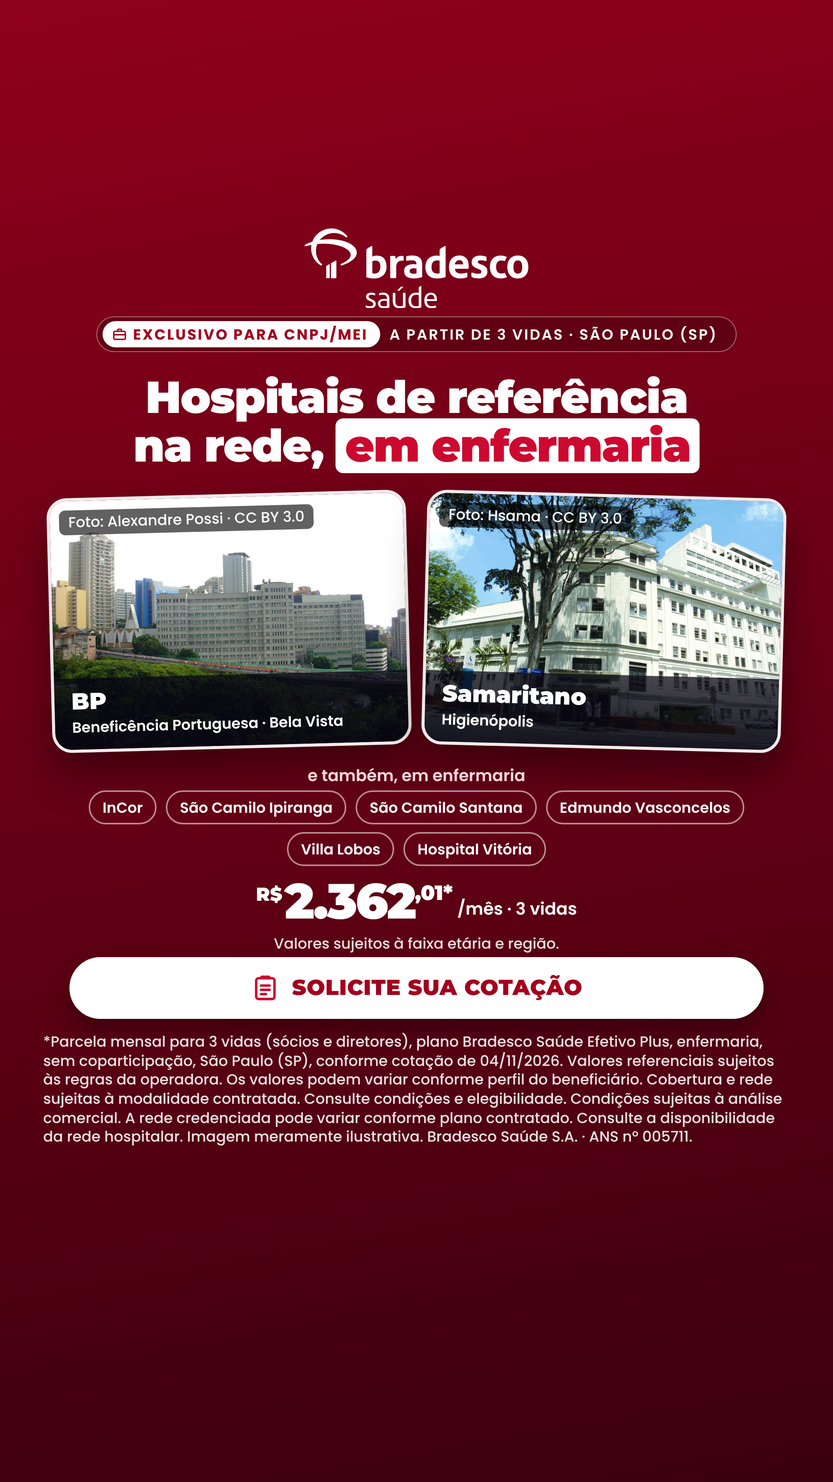
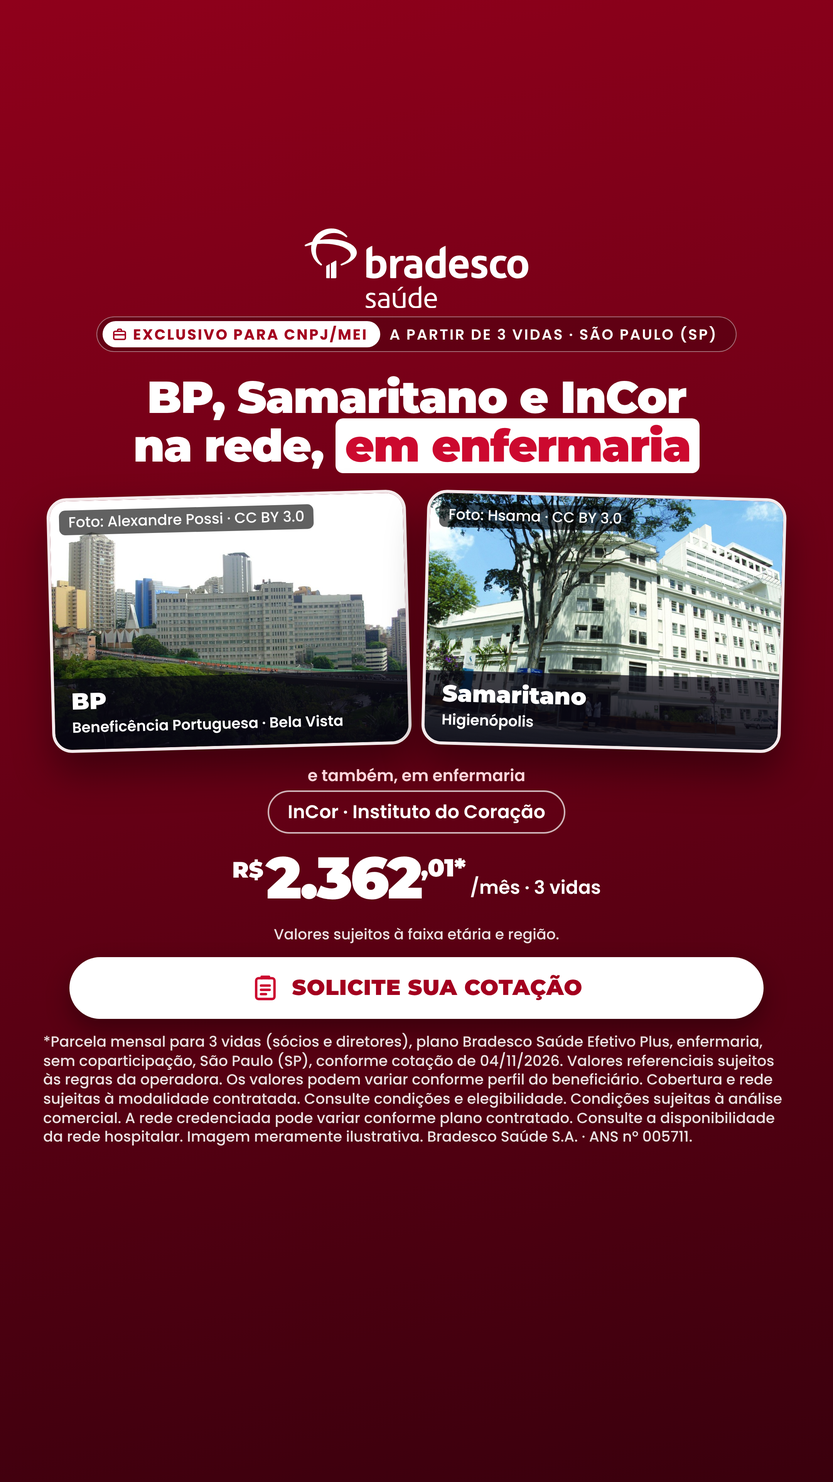
Hospitais: só os melhores de SP que estão na rede da cotação
Regra do cliente registrada no CLAUDE.md: citar só hospitais de primeira linha de São Paulo, e só
se estiverem na rede do plano na acomodação da cotação (Einstein, Sírio e Oswaldo Cruz não estão
nestes planos de enfermaria).
- B6: BP, Samaritano e InCor (material oficial Bradesco); saem os de segunda linha
- S5/S6: BP e São Luiz (Rede D'Or); saem Leforte e Santa Paula
- A4–A6 (rede própria Amil) suspensas: fonte fica em pecas/_a*.html, PNGs saem de final/

Claude-Session: https://claude.ai/code/session_01GQmGjzcDcCg5ZjPiHt6SBp

Changed region(s): [[0.2171, 0.5312, 0.8995, 0.6562], [0.1861, 0.25, 0.8375, 0.2812], [0.1241, 0.5312, 0.1861, 0.5625]]

diff --git a/criativos/cotacoes-3-vidas-sp/pecas/s6-sula-enquete.html b/criativos/cotacoes-3-vidas-sp/pecas/s6-sula-enquete.html
@@ -6,34 +6,34 @@
 <link rel="stylesheet" href="base.css">
 <link rel="stylesheet" href="hosp.css">
 <style>
-  /* S6 — jeito de enquete de Story: "Qual hospital você quer na rede da sua empresa?" com quatro opções, todas
-     marcadas (estão na rede de referência do Direto Nacional em enfermaria). A BP leva a miniatura da fachada real. */
+  /* S6 — jeito de enquete de Story: "Qual hospital você quer na rede da sua empresa?" com as duas opções
+     marcadas: BP e São Luiz, hospitais de primeira linha da rede do Direto Nacional em enfermaria. A BP leva a miniatura da fachada real. */
   body { background: radial-gradient(120% 70% at 50% 35%, #2c3a72 0%, #222d59 45%, #161e40 100%); }
   .logo { position: absolute; left: 380px; top: 294px; width: 320px; }
   .chip { position: absolute; left: 0; right: 0; margin: 0 auto; width: max-content; top: 406px; height: 46px; padding: 0 24px;
     font-size: 19px; color: #fff; background: rgba(255,255,255,.08); border: 1px solid rgba(255,255,255,.35); }
 
-  .enquete { position: absolute; left: 90px; right: 90px; top: 484px; height: 556px; border-radius: 34px; background: #fff;
+  .enquete { position: absolute; left: 90px; right: 90px; top: 484px; height: 420px; border-radius: 34px; background: #fff;
     box-shadow: 0 30px 60px rgba(0,0,0,.4); color: var(--sula-esc); }
   .enquete .q { position: absolute; left: 40px; right: 40px; top: 34px; text-align: center; font-family: var(--mont); font-weight: 900;
     font-size: 44px; line-height: 1.1; letter-spacing: -.015em; }
-  .op { position: absolute; left: 40px; right: 40px; height: 84px; border-radius: 22px; background: #eef1fa; display: flex;
+  .op { position: absolute; left: 40px; right: 40px; height: 90px; border-radius: 22px; background: #eef1fa; display: flex;
     align-items: center; gap: 18px; padding: 0 24px; }
-  .op.o1 { top: 176px; } .op.o2 { top: 268px; } .op.o3 { top: 360px; } .op.o4 { top: 452px; }
+  .op.o1 { top: 196px; } .op.o2 { top: 300px; }
   .op .barra { position: absolute; left: 0; top: 0; bottom: 0; width: 100%; border-radius: 22px;
     background: linear-gradient(90deg, rgba(242,138,21,.28), rgba(233,82,28,.18)); }
-  .op b { position: relative; font-family: var(--mont); font-weight: 800; font-size: 30px; }
+  .op b { position: relative; font-family: var(--mont); font-weight: 900; font-size: 36px; }
   .op small { position: relative; font-weight: 500; font-size: 19px; color: #3b4470; }
   .op .ok { position: relative; margin-left: auto; display: flex; align-items: center; gap: 8px; font-weight: 700; font-size: 19px; color: #a3410a; }
   .op .ok .icone { width: 32px; height: 32px; padding: 6px; border-radius: 50%; background: var(--laranja); color: var(--sula-esc); }
   .op .mini { position: relative; width: 58px; height: 58px; border-radius: 50%; overflow: hidden; flex: none; border: 3px solid #fff; }
   .op .mini img { position: absolute; left: 0; top: 0; width: 52px; height: 52px; }
-  .resp { position: absolute; left: 0; right: 0; top: 1096px; text-align: center; font-family: var(--mont); font-weight: 800; font-size: 30px; }
+  .resp { position: absolute; left: 0; right: 0; top: 990px; font-size: 38px; text-align: center; font-family: var(--mont); font-weight: 800; font-size: 30px; }
   .resp em { font-style: normal; color: var(--laranja); }
-  .preco { position: absolute; left: 0; right: 0; top: 1138px; text-align: center; font-size: 62px; }
+  .preco { position: absolute; left: 0; right: 0; top: 1060px; text-align: center; font-size: 84px; }
   .preco .mes { font-family: 'Poppins'; font-weight: 600; font-size: 22px; letter-spacing: 0; margin-left: 6px; color: #dfe4f5; }
-  .nota-preco { position: absolute; left: 0; right: 0; top: 1208px; text-align: center; color: rgba(255,255,255,.8); }
-  .credito.s6 { left: 0; right: 0; margin: 0 auto; width: max-content; top: 1052px; background: rgba(22,30,64,.85); }
+  .nota-preco { position: absolute; left: 0; right: 0; top: 1190px; text-align: center; color: rgba(255,255,255,.8); }
+  .credito.s6 { left: 0; right: 0; margin: 0 auto; width: max-content; top: 920px; background: rgba(22,30,64,.85); }
   .cta { background: linear-gradient(90deg, var(--laranja), var(--laranja-2)); color: var(--sula-esc); box-shadow: 0 14px 30px rgba(0,0,0,.35); }
   .legal { color: rgba(255,255,255,.85); }
 </style>
@@ -43,15 +43,13 @@
   <p class="chip"><span class="req"><span data-icone="maleta"></span>Exclusivo para CNPJ/MEI</span>A partir de 3 vidas · São Paulo (SP)</p>
 
   <div class="enquete">
-    <p class="q">Qual hospital você quer na rede da sua empresa?</p>
-    <div class="op o1"><i class="barra"></i><b>São Luiz</b><small>Rede D'Or</small><span class="ok"><span data-icone="check"></span>na rede</span></div>
-    <div class="op o2"><i class="barra"></i><span class="mini"><img src="../assets/fotos/cortes/h-bp-redondo.jpg" alt=""></span><b>BP</b><small>Beneficência Portuguesa</small><span class="ok"><span data-icone="check"></span>na rede</span></div>
-    <div class="op o3"><i class="barra"></i><b>Leforte</b><span class="ok"><span data-icone="check"></span>na rede</span></div>
-    <div class="op o4"><i class="barra"></i><b>Santa Paula</b><span class="ok"><span data-icone="check"></span>na rede</span></div>
+    <p class="q">Qual desses hospitais você quer na rede da sua empresa?</p>
+    <div class="op o2"><i class="barra"></i><b>São Luiz</b><small>Rede D'Or</small><span class="ok"><span data-icone="check"></span>na rede</span></div>
+    <div class="op o1"><i class="barra"></i><span class="mini"><img src="../assets/fotos/cortes/h-bp-redondo.jpg" alt=""></span><b>BP</b><small>Beneficência Portuguesa</small><span class="ok"><span data-icone="check"></span>na rede</span></div>
   </div>
   <p class="credito s6">Foto da BP: Alexandre Possi · CC BY 3.0</p>
 
-  <p class="resp">Todos, no <em>SulAmérica Direto Nacional</em></p>
+  <p class="resp">Os dois, no <em>SulAmérica Direto Nacional</em></p>
   <p class="preco"><span class="rs">R$</span>1.593<span class="cent">,54*</span><span class="mes">/mês · 3 vidas · sem coparticipação</span></p>
   <p class="nota-preco"></p>
 

diff --git a/criativos/cotacoes-3-vidas-sp/pecas/b6-bradesco-rede.html b/criativos/cotacoes-3-vidas-sp/pecas/b6-bradesco-rede.html
@@ -6,8 +6,8 @@
 <link rel="stylesheet" href="base.css">
 <link rel="stylesheet" href="hosp.css">
 <style>
-  /* B6 — a rede do Efetivo Plus em enfermaria na capital (lista oficial da Bradesco Saúde, set/2026): BP e Samaritano
-     em fotos reais lado a lado e os demais hospitais em etiquetas; o preço da cotação de 3 vidas embaixo. */
+  /* B6 — os três hospitais de primeira linha da rede do Efetivo Plus em enfermaria na capital (material oficial da
+     Bradesco Saúde, set/2026): BP e Samaritano em fotos reais lado a lado e o InCor em etiqueta; o preço da cotação de 3 vidas embaixo. */
   body { background: linear-gradient(170deg, #8f001b 0%, #6a0016 45%, #3a000d 100%); }
   .logo { position: absolute; left: 395px; top: 296px; width: 290px; color: #fff; }
   .chip { position: absolute; left: 0; right: 0; margin: 0 auto; width: max-content; top: 410px; height: 46px; padding: 0 24px;
@@ -23,10 +23,10 @@
 
   .tb { position: absolute; left: 0; right: 0; top: 990px; text-align: center; font-weight: 600; font-size: 21px; color: #ffd6dc; }
   .mais { top: 1024px; left: 50px; right: 50px; }
-  .mais span { border: 2px solid rgba(255,255,255,.55); color: #fff; height: 44px; font-size: 19px; padding: 0 16px; }
-  .preco { position: absolute; left: 0; right: 0; top: 1140px; text-align: center; font-size: 64px; }
-  .preco .mes { font-family: 'Poppins'; font-weight: 600; font-size: 22px; letter-spacing: 0; margin-left: 6px; }
-  .nota-preco { position: absolute; left: 0; right: 0; top: 1208px; text-align: center; color: rgba(255,255,255,.88); }
+  .mais span { border: 2px solid rgba(255,255,255,.7); color: #fff; height: 56px; font-size: 24px; padding: 0 24px; }
+  .preco { position: absolute; left: 0; right: 0; top: 1104px; text-align: center; font-size: 76px; }
+  .preco .mes { font-family: 'Poppins'; font-weight: 600; font-size: 24px; letter-spacing: 0; margin-left: 6px; }
+  .nota-preco { position: absolute; left: 0; right: 0; top: 1196px; text-align: center; color: rgba(255,255,255,.88); }
   .cta { background: #fff; color: var(--brad-esc); box-shadow: 0 14px 30px rgba(20,0,4,.4); }
   .cta .icone { color: var(--brad); }
   .legal { color: rgba(255,255,255,.88); }
@@ -35,7 +35,7 @@
 <body data-operadora="bradesco" data-hospital="sim">
   <div class="logo" data-marca="bradesco"></div>
   <p class="chip"><span class="req"><span data-icone="maleta"></span>Exclusivo para CNPJ/MEI</span>A partir de 3 vidas · São Paulo (SP)</p>
-  <h1 class="h1">Hospitais de referência<br>na rede, <em>em enfermaria</em></h1>
+  <h1 class="h1">BP, Samaritano e InCor<br>na rede, <em>em enfermaria</em></h1>
 
   <div class="quadro c1">
     <img src="../assets/fotos/cortes/h-bp-card.jpg" alt="">
@@ -49,7 +49,7 @@
   </div>
 
   <p class="tb">e também, em enfermaria</p>
-  <p class="mais"><span>InCor</span><span>São Camilo Ipiranga</span><span>São Camilo Santana</span><span>Edmundo Vasconcelos</span><span>Villa Lobos</span><span>Hospital Vitória</span></p>
+  <p class="mais"><span>InCor · Instituto do Coração</span></p>
 
   <p class="preco"><span class="rs">R$</span>2.362<span class="cent">,01*</span><span class="mes">/mês · 3 vidas</span></p>
   <p class="nota-preco"></p>

diff --git a/criativos/cotacoes-3-vidas-sp/pecas/s5-sula-rede.html b/criativos/cotacoes-3-vidas-sp/pecas/s5-sula-rede.html
@@ -6,7 +6,7 @@
 <link rel="stylesheet" href="base.css">
 <link rel="stylesheet" href="hosp.css">
 <style>
-  /* S5 — lista de hospitais de referência do Direto Nacional em enfermaria na capital, com a fachada real da BP num
+  /* S5 — os hospitais de primeira linha da rede do Direto Nacional em enfermaria na capital (BP e São Luiz), com a fachada real da BP num
      cartão ao lado e o preço mensal da cotação embaixo. */
   body { background: linear-gradient(180deg, #222d59 0%, #1b2550 50%, #161e40 100%); }
   .onda { position: absolute; inset: 0; width: 100%; height: 100%; }
@@ -20,10 +20,10 @@
   .quadro.c1 { left: 60px; top: 650px; width: 466px; height: 330px; transform: rotate(-2deg); }
   .quadro.c1 img { left: 0; top: 0; width: 458px; height: 322px; }
   .quadro .credito { left: 12px; top: 12px; }
-  .lista { position: absolute; left: 566px; top: 650px; display: flex; flex-direction: column; gap: 16px; }
-  .lista p { display: flex; align-items: center; gap: 14px; font-family: var(--mont); font-weight: 800; font-size: 31px; line-height: 1.05; }
-  .lista p small { display: block; font-family: 'Poppins'; font-weight: 500; font-size: 19px; color: #c9d0ea; margin-top: 2px; }
-  .lista .icone { width: 40px; height: 40px; padding: 8px; border-radius: 50%; background: var(--laranja); color: var(--sula-esc); }
+  .lista { position: absolute; left: 566px; top: 690px; display: flex; flex-direction: column; gap: 34px; }
+  .lista p { display: flex; align-items: center; gap: 16px; font-family: var(--mont); font-weight: 900; font-size: 44px; line-height: 1.02; }
+  .lista p small { display: block; font-family: 'Poppins'; font-weight: 500; font-size: 21px; color: #c9d0ea; margin-top: 4px; }
+  .lista .icone { width: 52px; height: 52px; padding: 10px; border-radius: 50%; background: var(--laranja); color: var(--sula-esc); }
 
   .pilulas { position: absolute; left: 60px; right: 60px; top: 1010px; }
   .pilulas span { border: 2px solid rgba(242,138,21,.85); color: #fff; }
@@ -50,10 +50,8 @@
     <p class="rotulo"><b>BP</b><span>Beneficência Portuguesa · Bela Vista</span></p>
   </div>
   <div class="lista">
-    <p><span data-icone="check"></span><span>São Luiz<small>Rede D'Or</small></span></p>
     <p><span data-icone="check"></span><span>BP<small>Beneficência Portuguesa</small></span></p>
-    <p><span data-icone="check"></span><span>Leforte</span></p>
-    <p><span data-icone="check"></span><span>Santa Paula</span></p>
+    <p><span data-icone="check"></span><span>São Luiz<small>Rede D'Or</small></span></p>
   </div>
 
   <p class="pilulas"><span>SulAmérica Direto Nacional</span><span>Sem coparticipação</span><span>3 vidas</span></p>

diff --git a/criativos/cotacoes-3-vidas-sp/README.md b/criativos/cotacoes-3-vidas-sp/README.md
@@ -1,10 +1,14 @@
 # Cotações de 3 vidas em São Paulo (SP) — Amil, Bradesco Saúde e SulAmérica
 
-Dezoito criativos estáticos, seis para cada cotação enviada em 04/11/2026: três da primeira leva (a1–s3) e três com
-**hospital de referência** citado pelo nome e foto real da fachada (a4–s6, seção própria abaixo). Todos em **um formato só: Story
+Quinze criativos estáticos para as cotações enviadas em 04/11/2026:
+- três por cotação na primeira leva (a1–s3);
+- mais seis com **hospital de referência** citado pelo nome e foto real da fachada (b4–s6, seção própria abaixo).
+  As três da Amil estão suspensas até confirmar a rede.
+
+Todos em **um formato só: Story
 1080×1920**, com todo o texto entre **y=290 e y=1536**. Essa faixa fica livre das barras do Story e cabe inteira
 no recorte 4:5 que o Meta faz para o Feed (y 285–1635). PNG em 2x (2160×3840) em `final/`. A visão geral
-está em `final/_visao-geral.jpg` (a1–s3) e `final/_visao-geral-hospitais.jpg` (a4–s6).
+está em `final/_visao-geral.jpg` (a1–s3) e `final/_visao-geral-hospitais.jpg` (b4–s6).
 
 ## As cotações
 
@@ -32,48 +36,55 @@ Fotos reais do **Adobe Stock** (licença gratuita, sem IA): 305689652 (equipe no
 vidro), 1193644379 (equipe no corredor), 556739692 (Paulista de dia), 132782917 (Paulista à noite). As fotos de
 hospital mostram saguão e corredor, não quarto, porque os três planos são de **enfermaria**: uma suíte privativa
 daria a entender outra acomodação. Nas peças a1–s3 nenhum hospital é citado pelo nome. Os hospitais aparecem
-nas variações a4–s6.
+nas variações b4–s6.
 
 Logos: Amil (`assets/marca/amil.svg`, o mesmo das outras campanhas), Bradesco Saúde (SVG oficial do site da
 Bradesco Seguros) e SulAmérica (recortado da imagem oficial do portal da SulAmérica; versão para fundo escuro com
 o texto em branco).
 
-## Variações com hospital de referência (a4–s6)
+## Variações com hospital de referência (b4–s6)
+
+Regra do cliente (06/11/2026, no CLAUDE.md): **só os melhores hospitais de São Paulo, e só se estiverem na rede do plano
+da cotação, na acomodação da cotação**.
+
+- Os três do topo do ranking Newsweek 2026 (Einstein, Sírio-Libanês e Alemão Oswaldo Cruz) não estão na rede destes
+  planos de enfermaria. Para anunciá-los, é preciso a cotação de um plano que os tenha.
+- Por isso as peças usam os hospitais de primeira linha que estão na rede de cada cotação.
 
 | Peça | Gancho | Hospital e foto |
 |---|---|---|
-| `a4-amil-paulistano` | "Hospital Paulistano", com o preço da 1ª e da 2ª mensalidade ao lado | Fachada do Hospital Paulistano, em cartão alto |
-| `a5-amil-metropolitano` | "Sua empresa fica na Zona Oeste?" | Hospital Metropolitano (Lapa), em foto de polaroide com o nome escrito à mão |
-| `a6-amil-rede-propria` | "Hospitais da rede própria Amil em São Paulo" | Paulistano e Metropolitano em cartões, mais Vitória (Anália Franco) e Luz (Vila Mariana) |
 | `b4-bradesco-samaritano` | "Hospital Samaritano na rede, em enfermaria" | Fachada do Samaritano (Higienópolis) com a placa do hospital à vista |
 | `b5-bradesco-bp` | "Precisou internar? A BP está na rede do seu plano." | Fachada da BP – Beneficência Portuguesa (Bela Vista) |
-| `b6-bradesco-rede` | "Hospitais de referência na rede, em enfermaria" | BP e Samaritano em cartões, mais InCor, São Camilo Ipiranga e Santana, Edmundo Vasconcelos, Villa Lobos e Hospital Vitória |
+| `b6-bradesco-rede` | "BP, Samaritano e InCor na rede, em enfermaria" | BP e Samaritano em cartões, mais o InCor |
 | `s4-sula-bp` | "A BP no seu plano, sem coparticipação" | Fachada da BP vista do viaduto |
-| `s5-sula-rede` | "Hospitais de referência na rede, em enfermaria" | Cartão da BP e lista: São Luiz (Rede D'Or), BP, Leforte, Santa Paula |
-| `s6-sula-enquete` | "Qual hospital você quer na rede da sua empresa?" (cara de enquete de Story) | As quatro opções marcadas "na rede"; a BP tem miniatura da fachada |
+| `s5-sula-rede` | "Hospitais de referência na rede, em enfermaria" | Cartão da BP e lista: BP e São Luiz (Rede D'Or) |
+| `s6-sula-enquete` | "Qual desses hospitais você quer na rede da sua empresa?" (cara de enquete de Story) | BP (com miniatura da fachada) e São Luiz, os dois marcados "na rede" |
+
+**Amil (peças `_a4`, `_a5` e `_a6` em `pecas/`, fora de `final/`): suspensas.**
+
+- Elas citavam a rede própria da Amil (Paulistano, Metropolitano, Vitória e Luz), que não está entre os melhores
+  hospitais de SP.
+- Na página oficial "Nossos planos" da Amil, a linha Prata aparece com Samaritano Paulista e Hospital Santa Catarina.
+  Mas a página não deixa claro se isso vale para o Prata QC Copart TP em enfermaria.
+- Depois de confirmar esses hospitais na cotação, as três peças são refeitas com eles. O `_` no nome deixa as peças
+  fora do render.
 
 **De onde vem a rede de cada plano:**
 
 - **Bradesco Saúde Efetivo Plus: fonte oficial.** É o material da Bradesco Saúde "Efetivo Plus · cobertura
   nacional", de setembro de 2026, com quarto e enfermaria marcados por hospital
   ([PDF](https://www.bradescoseguros.com.br/wcm/connect/cfe02e3b-0d71-4f18-b8c3-c40a7d30d58a/260824_BRASAU_EfetivoPlus_Nacional_SP-DF-RS-PR-BA_AF.pdf?MOD=AJPERES&CONVERT_TO=url&CACHEID=ROOTWORKSPACE-cfe02e3b-0d71-4f18-b8c3-c40a7d30d58a-q0R5H.S)).
-  - As peças só usam hospitais da capital com **enfermaria** marcada: Hospital Samaritano, BP – Beneficência
-    Portuguesa, Edmundo Vasconcelos, InCor, São Camilo Ipiranga, São Camilo Santana, Villa Lobos e Hospital Vitória.
-  - Ficaram de fora A.C. Camargo, HCor, São Camilo Pompéia, Santa Catarina, Santa Joana e São Luiz Alphaville.
-    Nesse material eles aparecem só com quarto.
-- **Amil: página oficial da rede própria, mas sem o plano.** A página
-  "[Rede Própria Amil](https://medxperience.amil.com.br/para-o-seu-paciente/rede-propria-amil)" (03/2024) lista em
-  SP: Hospital Paulistano, Hospital Metropolitano Lapa, Hospital e Maternidade Vitória Anália Franco e Hospital Luz
-  Vila Mariana.
-  - A página não diz quais planos cada hospital atende.
-  - Sites de corretores também citam Paulistano, Metropolitano e Vitória na rede do Amil Prata em SP.
-  - **Confirmar que atendem o Prata QC Copart TP em enfermaria antes de subir.**
+  - Os hospitais de primeira linha com **enfermaria** marcada na capital são BP – Beneficência Portuguesa,
+    Hospital Samaritano e InCor.
+  - HCor, Santa Catarina e Santa Joana estão na rede, mas só com quarto. Por isso não entram nestas peças de
+    enfermaria.
 - **SulAmérica Direto Nacional: fonte de corretor.** Não achei lista oficial pública.
   - A página da [Capitalis](https://conveniosmedicossp.com.br/rede-credenciada-sulamerica-saude/) foi revisada em
     18/10/2026 com a tabela da operadora de julho/2026.
-  - Para o "Direto Nacional [E]" (enfermaria) ela lista: São Luiz (Rede D'Or), BP – Beneficência Portuguesa,
-    Leforte e Santa Paula.
-  - **Confirmar no buscador de rede da SulAmérica, com o produto da cotação, antes de subir.**
+  - Para o "Direto Nacional [E]" (enfermaria) ela lista São Luiz (Rede D'Or), BP – Beneficência Portuguesa, Leforte e
+    Santa Paula. Ficaram só BP e São Luiz.
+  - **Confirmar no buscador de rede da SulAmérica, com o produto da cotação, antes de subir.** Confirmar também qual
+    unidade São Luiz atende o plano.
 
 **Fotos (reais, Wikimedia Commons, licença que permite uso comercial; crédito do autor escrito sobre cada foto):**
 
@@ -81,17 +92,14 @@ o texto em branco).
 |---|---|---|---|
 | BP – Beneficência Portuguesa | [Hospital Beneficência Portuguesa - panoramio - Alexandre Possi.jpg](https://commons.wikimedia.org/wiki/File:Hospital_Benefic%C3%AAncia_Portuguesa_-_panoramio_-_Alexandre_Possi.jpg) e [… (1).jpg](https://commons.wikimedia.org/wiki/File:Hospital_Benefic%C3%AAncia_Portuguesa_-_panoramio_-_Alexandre_Possi_(1).jpg) | Alexandre Possi | CC BY 3.0 |
 | Hospital Samaritano | [1-FachadanovocomplexoHospitalar.jpg](https://commons.wikimedia.org/wiki/File:1-FachadanovocomplexoHospitalar.jpg) | Hsama | CC BY 3.0 |
-| Hospital Paulistano | [Fachada Hospital Paulistano.jpg](https://commons.wikimedia.org/wiki/File:Fachada_Hospital_Paulistano.jpg) | Hospital Paulistano | domínio público |
-| Hospital Metropolitano (Lapa) | [Hospital Metropolitano 5.JPG](https://commons.wikimedia.org/wiki/File:Hospital_Metropolitano_5.JPG) | RedeAssistencialSP | CC BY 1.0 |
 
-- As fotos são miniaturas oficiais do Wikimedia, de 960 a 1920 px. O Wikimedia bloqueou o download dos originais
+- As fotos são miniaturas oficiais do Wikimedia, de 1280 a 1920 px. O Wikimedia bloqueou o download dos originais
   desta máquina por excesso de pedidos.
-- Os espaços das peças foram dimensionados para a foto quase não ser ampliada: no máximo 1,27x, na faixa da BP
-  da B5.
+- Os espaços das peças foram dimensionados para a foto quase não ser ampliada: no máximo 1,27x, na faixa da BP da B5.
 - Os recortes saem de `ferramentas/cortar-hospitais.py`.
+- O São Luiz não tem foto livre no Wikimedia, então aparece só por escrito (S5 e S6).
 
-Não há foto livre de São Luiz, Leforte e Santa Paula no Wikimedia. Por isso esses hospitais aparecem só por escrito
-(S5 e S6). As 9 peças passam no `conferir.mjs`: fonte mínima de 19 px, contraste aprovado e texto até y=1536.
+As 6 peças passam no `conferir.mjs`: fonte mínima de 19 px, contraste aprovado e texto até y=1536.
 
 ## Destino: formulário com trava (CNPJ + 3 vidas ou mais)
 
@@ -113,7 +121,7 @@ cotação (marcado com \*):
   beneficiário.", "Cobertura e rede sujeitas à modalidade contratada.", "Consulte condições e elegibilidade.",
   "Condições sujeitas à análise comercial."
 - Amil (desconto de novembro): "Oferta sujeita à disponibilidade comercial."
-- Peças com foto de hospital (a2, b1, s2 e todas as a4–s6): "A rede credenciada pode variar conforme plano contratado.", "Consulte a
+- Peças com foto de hospital (a2, b1, s2 e todas as b4–s6): "A rede credenciada pode variar conforme plano contratado.", "Consulte a
   disponibilidade da rede hospitalar.", "Imagem meramente ilustrativa."
 - Peças com foto da cidade (b3, s3): "Imagem meramente ilustrativa."
 - Registro ANS: Amil 326305, Bradesco Saúde S.A. 005711, Sul América Companhia de Seguro Saúde 006246.
@@ -129,8 +137,8 @@ contraste de 4,27:1 (texto grande).
   campanha da Amil deste mês. Confirmar com a corretora.
 - **Bradesco SPG de novembro** (50% na 2ª mensalidade nos cálculos de 03 a 30/11): a cotação mostra a 1ª e as
   demais parcelas iguais, então as peças não citam esse desconto.
-- **Hospitais citados nas peças a4–s6:** confirmar a rede do Amil Prata e do SulAmérica Direto Nacional, como explicado
-  na seção dos hospitais. A rede do Bradesco Efetivo Plus vem do material oficial.
+- **Hospitais citados nas peças s4–s6:** confirmar BP e São Luiz no SulAmérica Direto Nacional em enfermaria. A rede do
+  Bradesco Efetivo Plus (b4–b6) vem do material oficial. As peças da Amil com hospital estão suspensas.
 
 ## Versões editáveis
 

diff --git a/CLAUDE.md b/CLAUDE.md
@@ -64,6 +64,20 @@ Meta**. Esse formulário tem trava e só aceita **quem tem CNPJ (MEI incluído) 
 - **Público:** empresas e empreendedores com CNPJ ou MEI. Quando falar de família, deixar claro que a contratação é pelo
   CNPJ.
 
+### Hospitais citados: sempre os melhores de São Paulo, e só os que estão na rede
+
+Pedido do cliente em 06/11/2026: "sempre vamos trabalhar com os melhores". Quando o criativo cita hospital pelo nome:
+
+- **Prioridade:** os hospitais de primeira linha de São Paulo. Referência: ranking Newsweek/Statista "World's Best
+  Hospitals" do ano. Na edição 2026: Einstein, Sírio-Libanês e Alemão Oswaldo Cruz no topo. Também valem BP,
+  Samaritano, HCor, InCor, Vila Nova Star, Nove de Julho, São Luiz Itaim e Santa Catarina.
+- **Só se o hospital estiver na rede do plano da cotação, na acomodação da cotação** (enfermaria ou quarto),
+  confirmado em material oficial da operadora ou na cotação. Hospital fora da rede é propaganda enganosa: não entra,
+  nem como "referência". Não citar hospital de segunda linha só para preencher.
+- **Se o plano não tem hospital de primeira linha na rede:** a peça não cita hospital pelo nome. Para anunciar
+  Einstein, Sírio ou Oswaldo Cruz, pedir ao cliente a cotação de um plano que tenha esses hospitais.
+- Citar no README a fonte da rede de cada hospital.
+
 ### Referências visuais (inspiração obrigatória)
 
 Antes de criar qualquer criativo de plano de saúde (estático ou vídeo), abrir
